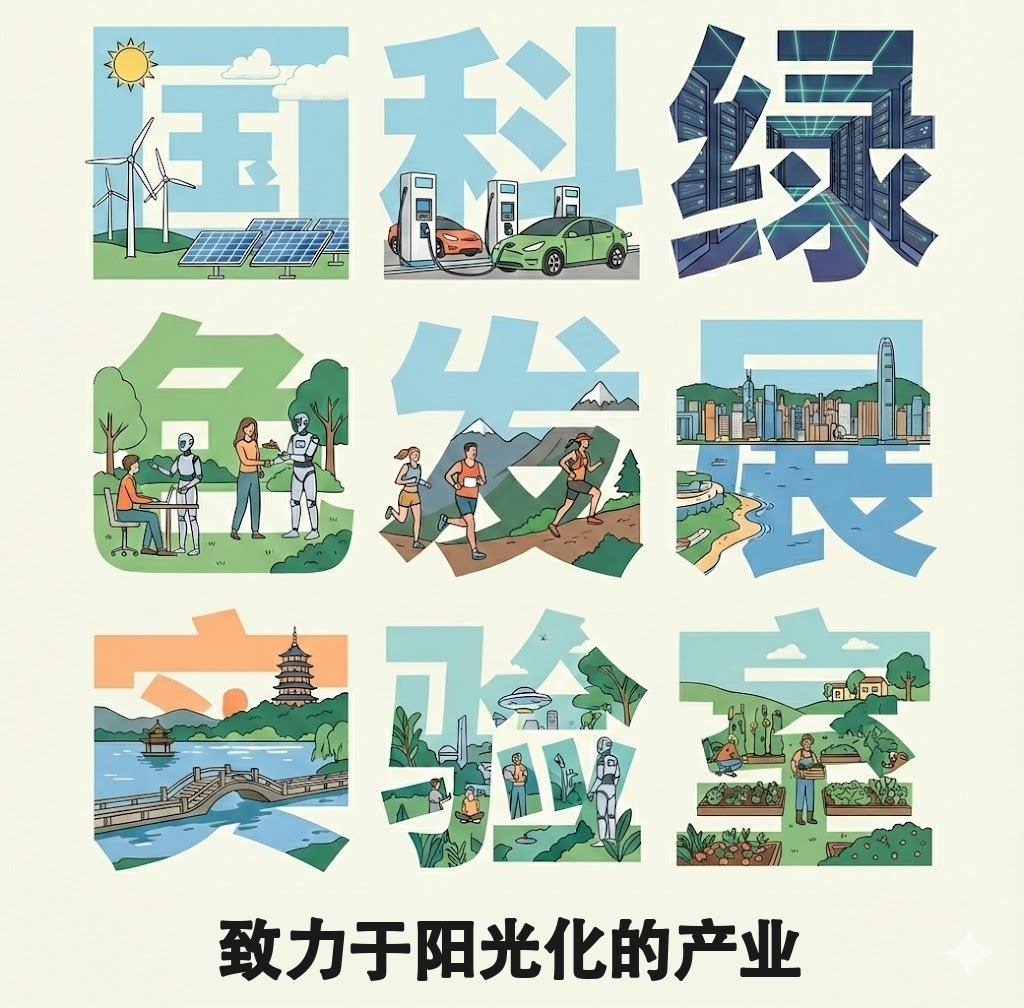
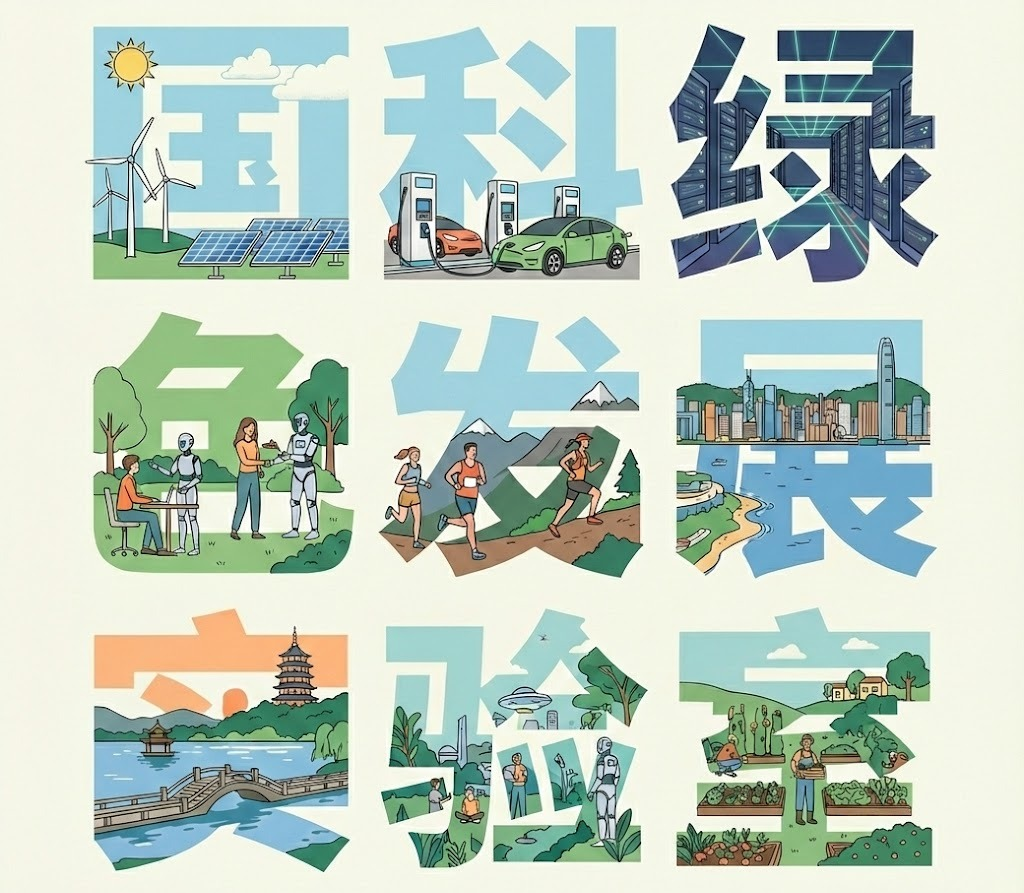
Add international cooperation section with captioned gallery, hero slogan as live text, philanthropy note.

diff --git a/src/i18n/translations.ts b/src/i18n/translations.ts
@@ -14,6 +14,7 @@ export const translations = {
     },
     hero: {
       badge: "非盈利性质法人组织 · 香港注册担保有限公司",
+      slogan: "致力于发展阳光化的产业",
       title: "国科绿色发展国际实验室",
       subtitle: "（香港）有限公司",
       description:
@@ -234,10 +235,55 @@ export const translations = {
       note: "平台目前处于试点筹备阶段，具体合作安排以各方正式协议为准。",
       cta: "洽谈合作",
     },
+    international: {
+      sectionTitle: "全球伙伴",
+      title: "国际合作",
+      subtitle: "依托战略合作伙伴中咨公司的国际咨询实践与 HKCAS 国际合作部的政商网络，服务共建“一带一路”国家的产业合作",
+      galleryTitle: "实践图集",
+      note: "数据、图片及说明来源：国家一带一路战略部署及中咨实践（战略合作伙伴中咨公司），反映其咨询实践。",
+    },
     cases: {
       sectionTitle: "项目实践",
       title: "成功案例",
       subtitle: "携手行业领军企业，共同推动绿色发展与产业升级",
+      domesticTitle: "国内项目",
+      internationalTitle: "国际合作案例",
+      internationalNote: "以上国际案例为战略合作伙伴中咨公司的实践。图片及说明来源：国家一带一路战略部署及中咨实践。",
+      international: [
+        {
+          title: "为中巴经济走廊产业合作提供全过程咨询",
+          subtitle: "全过程咨询",
+          category: "国际合作",
+          status: "战略合作伙伴实践",
+          location: "巴基斯坦",
+          description:
+            "2016年，在国家发改委中巴经济走廊中方秘书处统筹下，成立了中咨公司牵头的中方专家组，为中巴产业及园区合作提供智力支持和全过程咨询，完成了产业合作发展、基础设施建设等一系列咨询任务；深入调研，与当地政府、企业等各个层面深入交流，分享中国经验，贡献中咨方案。",
+          highlights: [
+            { label: "咨询范围", value: "产业合作发展、基础设施建设" },
+            { label: "服务方式", value: "全过程咨询" },
+            { label: "启动年份", value: "2016" },
+          ],
+          photos: [{ src: "/intl/cpec-map.webp", caption: "中巴经济走廊项目地图" }],
+        },
+        {
+          title: "境外经贸合作区评估与规划",
+          subtitle: "评估体系与园区规划",
+          category: "国际合作",
+          status: "战略合作伙伴实践",
+          location: "共建“一带一路”国家",
+          description:
+            "受商务部委托，中咨公司连续7年开展境外经贸合作区评估，建立考核和评价体系，推动中资企业在14个国家的20个合作区获得中央财政资金支持。完成了中国匈牙利宝思德经贸合作区、印尼青山工业园、中国印尼农业产业合作区、俄罗斯龙跃林业合作区等10多家园区的规划研究编制工作。",
+          highlights: [
+            { label: "评估年限", value: "连续7年" },
+            { label: "获支持合作区", value: "20个（14个国家）" },
+            { label: "园区规划研究", value: "10余家" },
+          ],
+          photos: [
+            { src: "/intl/borsod-zone.webp", caption: "中国匈牙利宝思德经贸合作区" },
+            { src: "/intl/qingshan-park.webp", caption: "印尼青山工业园" },
+          ],
+        },
+      ],
       case2: {
         title: "湖北恩施建始化工产业园区",
         subtitle: "零碳产业园区全周期服务项目",
@@ -290,6 +336,7 @@ export const translations = {
       sectionTitle: "回馈社会",
       title: "公益捐赠",
       subtitle: "积极履行社会责任，支持教育、学术与创业发展",
+      note: "以下捐赠包括本实验室（HKCAS）的捐助人兼联合创办人的个人捐赠，以及实验室 HKCAS 的捐助。",
       donations: {
         education: "教育公益",
         organization: "社团组织",
@@ -388,6 +435,7 @@ export const translations = {
     },
     hero: {
       badge: "Non-profit Organisation · Hong Kong Company Limited by Guarantee",
+      slogan: "Dedicated to Developing Sunlit Industries",
       title: "CAS Laboratory of Green Development",
       subtitle: "International (Hong Kong) Ltd.",
       description:
@@ -635,10 +683,57 @@ export const translations = {
       note: "The platform is currently in pilot preparation. Specific arrangements are subject to formal agreements among the parties.",
       cta: "Discuss Cooperation",
     },
+    international: {
+      sectionTitle: "Global Partners",
+      title: "International Cooperation",
+      subtitle:
+        "Drawing on the international advisory practice of our strategic partner CIECC and the government-business network of HKCAS's International Cooperation team, we serve industrial cooperation with Belt and Road countries",
+      galleryTitle: "Project Gallery",
+      note: "Figures, images and captions: \"Belt and Road Strategic Deployment and CIECC Practice\" (国家一带一路战略部署及中咨实践), by our strategic partner CIECC, reflecting its advisory practice.",
+    },
     cases: {
       sectionTitle: "Case Studies",
       title: "Success Stories",
       subtitle: "Partnering with industry leaders to drive green development and industrial upgrading",
+      domesticTitle: "Domestic Projects",
+      internationalTitle: "International Cooperation",
+      internationalNote:
+        "The international cases above are the work of our strategic partner CIECC. Images and captions: \"Belt and Road Strategic Deployment and CIECC Practice\" (国家一带一路战略部署及中咨实践).",
+      international: [
+        {
+          title: "Full-process Advisory for Industrial Cooperation in the China-Pakistan Economic Corridor",
+          subtitle: "Full-process advisory",
+          category: "International Cooperation",
+          status: "Partner's Practice",
+          location: "Pakistan",
+          description:
+            "In 2016, under the coordination of the Chinese secretariat of the China-Pakistan Economic Corridor at the National Development and Reform Commission, a Chinese expert group led by CIECC was formed to provide intellectual support and full-process advisory for China-Pakistan industry and park cooperation, covering industrial cooperation and infrastructure development, with in-depth research and exchanges with local governments and enterprises to share China's experience.",
+          highlights: [
+            { label: "Scope", value: "Industrial cooperation and infrastructure" },
+            { label: "Service", value: "Full-process advisory" },
+            { label: "Started", value: "2016" },
+          ],
+          photos: [{ src: "/intl/cpec-map.webp", caption: "China-Pakistan Economic Corridor Project Map" }],
+        },
+        {
+          title: "Assessment and Planning of Overseas Economic and Trade Cooperation Zones",
+          subtitle: "Assessment framework and park planning",
+          category: "International Cooperation",
+          status: "Partner's Practice",
+          location: "Belt and Road countries",
+          description:
+            "Commissioned by the Ministry of Commerce, CIECC has assessed overseas economic and trade cooperation zones for seven consecutive years, established an evaluation framework, helped Chinese enterprises secure central government funding for 20 zones in 14 countries, and completed planning studies for more than ten parks, including the China-Hungary Borsod Economic and Trade Cooperation Zone, Indonesia Qingshan Industrial Park, the China-Indonesia Agricultural Industry Cooperation Zone and the Russia Longyue Forestry Cooperation Zone.",
+          highlights: [
+            { label: "Assessment", value: "7 consecutive years" },
+            { label: "Zones supported", value: "20 (in 14 countries)" },
+            { label: "Park planning studies", value: "10+" },
+          ],
+          photos: [
+            { src: "/intl/borsod-zone.webp", caption: "China-Hungary Borsod Economic and Trade Cooperation Zone" },
+            { src: "/intl/qingshan-park.webp", caption: "Indonesia Qingshan Industrial Park" },
+          ],
+        },
+      ],
       case2: {
         title: "Jianshi Chemical Industrial Park, Enshi, Hubei",
         subtitle: "Zero-Carbon Industrial Park Full-Cycle Service",
@@ -693,6 +788,7 @@ export const translations = {
       title: "Philanthropy",
       subtitle:
         "Actively fulfilling social responsibility, supporting education, academic research, and entrepreneurship",
+      note: "The donations below include personal donations by the donor and co-founder of the Laboratory (HKCAS) as well as donations by HKCAS itself.",
       donations: {
         education: "Education",
         organization: "Organizations",

diff --git a/src/data/people.ts b/src/data/people.ts
@@ -19,5 +19,56 @@ export type CooperationItem = {
   photo?: string;
 };
 
+export type CooperationStat = { value: Localized; label: Localized };
+
 export const TEAM_MEMBERS: TeamMember[] = [];
-export const COOPERATION_ITEMS: CooperationItem[] = [];
+
+// 以下數據與圖片來自戰略合作夥伴中咨公司的介紹材料，須保持來源標註，不得寫成 HKCAS 自身業績。
+export const COOPERATION_STATS: CooperationStat[] = [
+  { value: { zh: "400余项", en: "400+" }, label: { zh: "“一带一路”项目咨询（8年累计）", en: "Belt and Road project consultations (8 years)" } },
+  { value: { zh: "50余项", en: "50+" }, label: { zh: "项目建设管理", en: "Project construction management assignments" } },
+  { value: { zh: "20个", en: "20" }, label: { zh: "推动获中央财政资金支持的境外经贸合作区", en: "Overseas economic and trade cooperation zones supported with central funding" } },
+  { value: { zh: "150个", en: "150" }, label: { zh: "国际业务覆盖的国家和地区", en: "Countries and regions covered by international work" } },
+];
+
+export const COOPERATION_ITEMS: CooperationItem[] = [
+  {
+    title: { zh: "政策研究与规划编制", en: "Policy Research and Planning" },
+    description: {
+      zh: "参与起草“一带一路”及境外合作园区相关政策文件，开展基础设施合作、战略产业布局、对外投资合作和境外港口布局等政策与规划研究。",
+      en: "Taking part in drafting Belt and Road and overseas cooperation park policy documents, and carrying out policy and planning research on infrastructure cooperation, strategic industrial layout, outbound investment cooperation and overseas port layout.",
+    },
+  },
+  {
+    title: { zh: "重大项目咨询论证与建设管理", en: "Major Project Appraisal and Construction Management" },
+    description: {
+      zh: "8年来累计完成“一带一路”项目咨询400余项，承担了柬埔寨吴哥国际机场、孟加拉卡纳普里河底隧道等项目管理50余项，为项目科学决策和顺利推进提供技术支撑。",
+      en: "Over eight years, more than 400 Belt and Road projects have been appraised and more than 50 projects, including Angkor International Airport in Cambodia and the Karnaphuli river-bed tunnel in Bangladesh, managed, providing technical support for sound decisions and smooth delivery.",
+    },
+    photo: "/intl/inga-hydropower.webp",
+  },
+  {
+    title: { zh: "对外援助与国际产能合作评估", en: "Foreign Aid and International Capacity Cooperation Assessment" },
+    description: {
+      zh: "承担对外援助项目可研评估、技术和物资援助咨询、项目验收等200余项，完成109个重点国家的《国别援助指导意见》；连续7年协助开展国际产能合作补助资金支持项目评估，累计300余项。",
+      en: "Undertaking more than 200 foreign-aid assignments covering feasibility assessment, technical and material aid advisory and project acceptance, completing country aid guidance for 109 priority countries, and assisting for seven consecutive years in assessing more than 300 projects for international capacity cooperation subsidies.",
+    },
+  },
+];
+
+export type GalleryImage = { src: string; caption: Localized };
+
+// 圖片與說明均取自《国家“一带一路”战略部署及中咨实践》，說明沿用原文，不得改寫或移作他用。
+export const COOPERATION_GALLERY: GalleryImage[] = [
+  { src: "/intl/laos-thailand-railway.webp", caption: { zh: "中老铁路；中泰铁路合作项目启动仪式", en: "China-Laos Railway; Launch Ceremony of the China-Thailand Railway Cooperation Project" } },
+  { src: "/intl/inga-hydropower.webp", caption: { zh: "刚果（金）英加水电站", en: "Inga Hydropower Station, DR Congo" } },
+  { src: "/intl/angkor-airport.webp", caption: { zh: "柬埔寨吴哥国际机场项目", en: "Angkor International Airport Project, Cambodia" } },
+  { src: "/intl/cpec-map.webp", caption: { zh: "中巴经济走廊项目地图", en: "China-Pakistan Economic Corridor Project Map" } },
+  { src: "/intl/borsod-zone.webp", caption: { zh: "中国匈牙利宝思德经贸合作区", en: "China-Hungary Borsod Economic and Trade Cooperation Zone" } },
+  { src: "/intl/qingshan-park.webp", caption: { zh: "印尼青山工业园", en: "Indonesia Qingshan Industrial Park" } },
+  { src: "/intl/great-stone-park.webp", caption: { zh: "中白工业园", en: "China-Belarus Industrial Park (Great Stone)" } },
+  { src: "/intl/mombasa-nairobi-railway.webp", caption: { zh: "蒙内铁路", en: "Mombasa-Nairobi Railway" } },
+  { src: "/intl/cnooc-shell-ethylene.webp", caption: { zh: "中海壳牌乙烯工程后评价", en: "Post-evaluation of the CNOOC-Shell Ethylene Project" } },
+  { src: "/intl/jilin-zone.webp", caption: { zh: "吉林中部产业转型升级示范区", en: "Central Jilin Industrial Transformation and Upgrading Demonstration Zone" } },
+  { src: "/intl/tangshan-zone.webp", caption: { zh: "河北唐山产业转型升级示范区", en: "Tangshan (Hebei) Industrial Transformation and Upgrading Demonstration Zone" } },
+];

diff --git a/src/sections/International.tsx b/src/sections/International.tsx
@@ -1,27 +1,67 @@
-import { COOPERATION_ITEMS } from "../data/people";
+import { COOPERATION_GALLERY, COOPERATION_ITEMS, COOPERATION_STATS } from "../data/people";
+import { useInView } from "../hooks/useInView";
 import { useLanguage } from "../hooks/useLanguage";
 
 export function International() {
-  const { language } = useLanguage();
+  const { language, t } = useLanguage();
+  const { ref, visible } = useInView<HTMLElement>();
   if (COOPERATION_ITEMS.length === 0) return null;
 
   return (
-    <section id="international" className="py-24 md:py-32 sunlit-bg">
+    <section id="international" ref={ref} className="py-24 md:py-32 sunlit-bg">
       <div className="max-w-7xl mx-auto px-6 sm:px-8 lg:px-12">
-        <h2 className="section-title text-center mb-16">{language === "zh" ? "国际合作" : "International Cooperation"}</h2>
-        <div className="grid md:grid-cols-2 lg:grid-cols-3 gap-8">
+        <div
+          className={`text-center mb-16 transition-all duration-700 ${
+            visible ? "opacity-100 translate-y-0" : "opacity-0 translate-y-8"
+          }`}
+        >
+          <span className="inline-block px-4 py-2 bg-[#D4A853]/15 text-[#8B7355] text-sm rounded-full mb-6 font-serif">
+            {t("international.sectionTitle")}
+          </span>
+          <h2 className="section-title">{t("international.title")}</h2>
+          <p className="section-subtitle max-w-3xl mx-auto">{t("international.subtitle")}</p>
+        </div>
+
+        <div className="grid grid-cols-2 lg:grid-cols-4 gap-6 mb-16">
+          {COOPERATION_STATS.map((stat) => (
+            <div key={stat.label.en} className="text-center bg-white/70 rounded-3xl p-6 border border-[#E8DFD0]">
+              <div className="text-3xl md:text-4xl font-medium text-[#2D4A3E]">{stat.value[language]}</div>
+              <div className="text-sm text-[#666666] mt-2 font-serif leading-relaxed">{stat.label[language]}</div>
+            </div>
+          ))}
+        </div>
+
+        <div className="grid md:grid-cols-3 gap-8 mb-10">
           {COOPERATION_ITEMS.map((item) => (
             <article key={item.title.en} className="bg-white/80 rounded-3xl overflow-hidden border border-[#E8DFD0]">
               {item.photo ? (
-                <img src={item.photo} alt={item.title[language]} loading="lazy" className="w-full h-48 object-cover" />
+                <img
+                  src={item.photo}
+                  alt={item.title[language]}
+                  loading="lazy"
+                  decoding="async"
+                  className="w-full h-48 object-cover"
+                />
               ) : null}
               <div className="p-6">
-                <h3 className="text-xl font-medium mb-2">{item.title[language]}</h3>
+                <h3 className="text-xl font-medium mb-3">{item.title[language]}</h3>
                 <p className="text-[#666666] font-serif leading-relaxed">{item.description[language]}</p>
               </div>
             </article>
           ))}
         </div>
+
+        <h3 className="text-2xl md:text-3xl font-medium my-10 text-center">{t("international.galleryTitle")}</h3>
+        <div className="columns-1 sm:columns-2 lg:columns-3 gap-6 mb-10">
+          {COOPERATION_GALLERY.map((img) => (
+            <figure key={img.src} className="mb-6 break-inside-avoid bg-white/80 rounded-2xl overflow-hidden border border-[#E8DFD0]">
+              <img src={img.src} alt={img.caption[language]} loading="lazy" decoding="async" className="w-full h-auto" />
+              <figcaption className="px-4 py-3 text-sm text-[#666666] font-serif">{img.caption[language]}</figcaption>
+            </figure>
+          ))}
+        </div>
+
+        <p className="text-center text-sm text-[#8B7355] font-serif">{t("international.note")}</p>
       </div>
     </section>
   );

diff --git a/src/sections/Cases.tsx b/src/sections/Cases.tsx
@@ -24,7 +24,8 @@ export function Cases() {
           <p className="section-subtitle max-w-3xl mx-auto">{t("cases.subtitle")}</p>
         </div>
 
-        <div className="space-y-10">
+        <h3 className="text-2xl md:text-3xl font-medium mb-8">{copy.domesticTitle}</h3>
+        <div className="space-y-10 mb-16">
           <article className="bg-white/80 rounded-3xl p-8 md:p-12 border border-[#E8DFD0]">
             <div className="flex flex-wrap gap-3 mb-4 text-sm">
               <span className="px-3 py-1 rounded-full bg-[#D4A853] text-white">{copy.case2.status}</span>
@@ -49,6 +50,41 @@ export function Cases() {
             </ul>
           </article>
         </div>
+
+        <h3 className="text-2xl md:text-3xl font-medium mb-8">{copy.internationalTitle}</h3>
+        <div className="space-y-10 mb-6">
+          {copy.international.map((item) => (
+            <article key={item.title} className="bg-white/80 rounded-3xl overflow-hidden border border-[#E8DFD0] md:grid md:grid-cols-5">
+              <div className="md:col-span-2 bg-[#F6F1E4] p-4 flex flex-col gap-4 justify-center">
+                {item.photos.map((photo) => (
+                  <figure key={photo.src}>
+                    <img src={photo.src} alt={photo.caption} loading="lazy" decoding="async" className="w-full h-auto rounded-xl" />
+                    <figcaption className="mt-2 text-sm text-[#666666] font-serif">{photo.caption}</figcaption>
+                  </figure>
+                ))}
+              </div>
+              <div className="p-8 md:p-10 md:col-span-3">
+                <div className="flex flex-wrap gap-3 mb-4 text-sm">
+                  <span className="px-3 py-1 rounded-full bg-[#2D4A3E] text-white">{item.status}</span>
+                  <span className="px-3 py-1 rounded-full bg-[#D4A853]/15 text-[#8B7355]">{item.category}</span>
+                  <span className="text-[#666666]">{item.location}</span>
+                </div>
+                <h4 className="text-2xl font-medium mb-2">{item.title}</h4>
+                <p className="text-[#8B7355] mb-5">{item.subtitle}</p>
+                <p className="text-[#666666] leading-relaxed font-serif mb-6">{item.description}</p>
+                <div className="grid sm:grid-cols-3 gap-4">
+                  {item.highlights.map((h) => (
+                    <div key={h.label}>
+                      <div className="text-sm text-[#8B7355] mb-1">{h.label}</div>
+                      <div className="font-medium">{h.value}</div>
+                    </div>
+                  ))}
+                </div>
+              </div>
+            </article>
+          ))}
+        </div>
+        <p className="text-center text-sm text-[#8B7355] font-serif">{copy.internationalNote}</p>
 
         <div className="text-center mt-16">
           <p className="section-subtitle mb-6">{t("cases.cta")}</p>

diff --git a/src/sections/Hero.tsx b/src/sections/Hero.tsx
@@ -5,7 +5,7 @@ export function Hero() {
 
   return (
     <section id="home" className="relative min-h-screen flex flex-col overflow-hidden bg-[#FFF9E6]">
-      {/* 主標題與簡介僅存在於背景圖，需另給可讀文本供螢幕閱讀器與爬蟲取用 */}
+      {/* 主標題與簡介僅存在於背景圖，需另給可讀文本供螢幕閱讀器與爬蟲取用；口號為真文字，隨語言切換 */}
       <div className="sr-only">
         <h1>
           {t("hero.title")}
@@ -16,18 +16,21 @@ export function Hero() {
       </div>
       <div className="parallax-bg absolute inset-0 w-full h-full">
         <div
-          className="absolute inset-x-0 top-0 flex items-start justify-center pt-16 sm:pt-20"
-          style={{ height: "calc(100% - 140px)" }}
+          className="absolute inset-x-0 top-0 flex flex-col items-center justify-start pt-16 sm:pt-20 px-4"
+          style={{ height: "calc(100% - 150px)" }}
         >
           <img
             src="/hero-bg.jpg"
             alt={`${t("hero.title")}${t("hero.subtitle")}`}
             width={1024}
-            height={1008}
+            height={893}
             fetchPriority="high"
-            className="object-contain max-h-full"
-            style={{ maxWidth: "min(95%, 1200px)" }}
+            className="object-contain min-h-0"
+            style={{ maxWidth: "min(95%, 1200px)", maxHeight: "calc(100% - 4.5rem)" }}
           />
+          <p className="mt-4 sm:mt-5 text-center text-xl sm:text-3xl md:text-4xl font-semibold tracking-wide text-[#1a1a1a]">
+            {t("hero.slogan")}
+          </p>
         </div>
         <div className="absolute inset-0 bg-gradient-to-b from-[#FFF9E6]/30 via-transparent to-[#FFF9E6]/80 pointer-events-none" />
       </div>

diff --git a/src/sections/Philanthropy.tsx b/src/sections/Philanthropy.tsx
@@ -49,6 +49,7 @@ export function Philanthropy() {
           </span>
           <h2 className="section-title">{t("philanthropy.title")}</h2>
           <p className="section-subtitle max-w-3xl mx-auto">{t("philanthropy.subtitle")}</p>
+          <p className="mt-4 text-sm text-[#8B7355] font-serif max-w-3xl mx-auto">{t("philanthropy.note")}</p>
         </div>
 
         <div className="grid md:grid-cols-2 lg:grid-cols-3 gap-6 mb-16">
